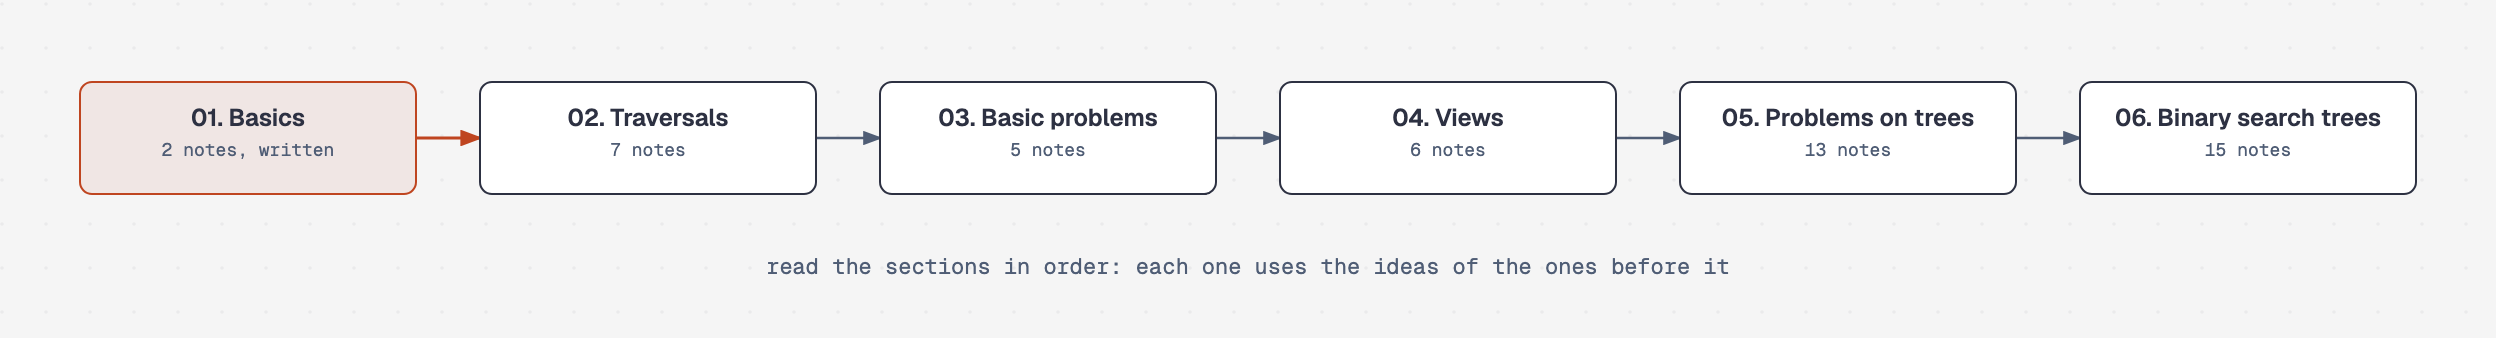
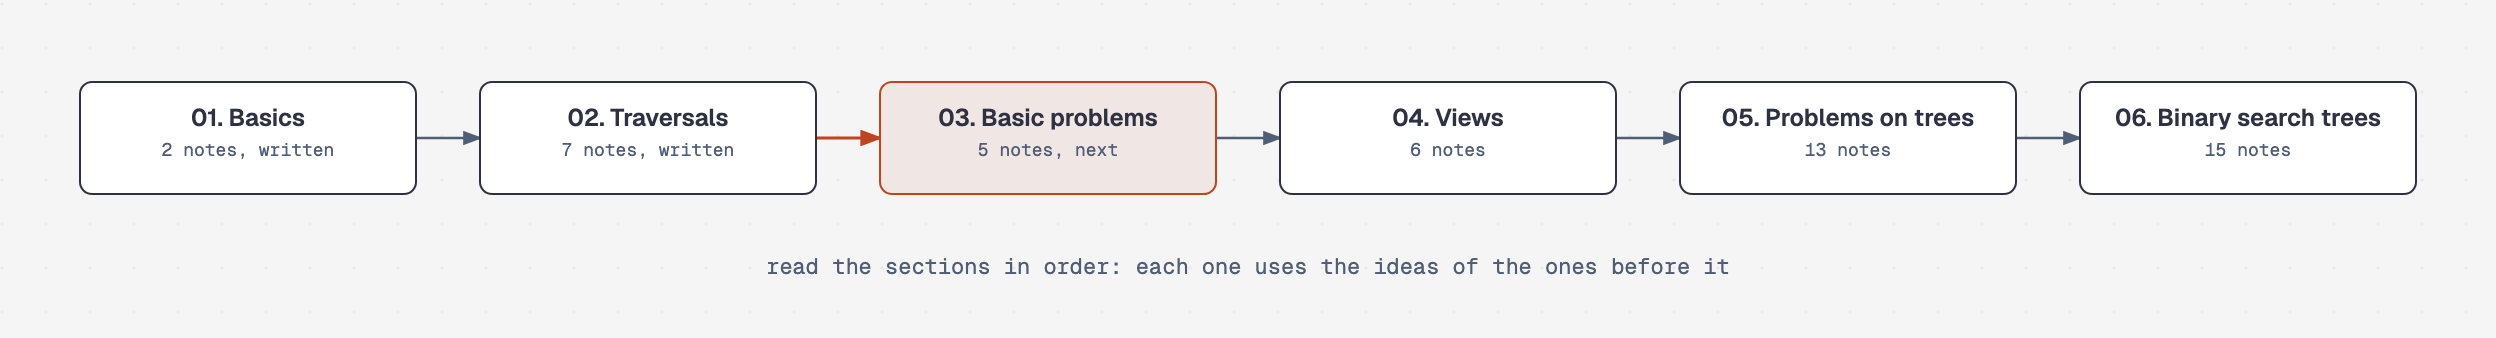
Trees guide and root README: section 02 Tree Traversals written

Changed region(s): [[0.3125, 0.2367, 0.5, 0.5917], [0.0312, 0.2367, 0.1875, 0.5917], [0.2188, 0.4142, 0.3125, 0.4734]]

diff --git a/README.md b/README.md
@@ -10,7 +10,7 @@ Every code line has a comment above it. Each note says which array it uses, then
 
 ## Topics
 
-Counts are problems written, broken down by difficulty tier. Theory notes (like the two Trees basics) count in the total only.
+Counts are problems written, broken down by difficulty tier. Theory notes (like the Trees basics and traversals intro) count in the total only.
 
 | # | Topic | Core Focus | Easy | Medium | Hard | Total | Status |
 |:---:|:---|:---|:---:|:---:|:---:|:---:|:---:|
@@ -21,7 +21,7 @@ Counts are problems written, broken down by difficulty tier. Theory notes (like 
 | 05 | Linked List | Reversal, cycle detection, merge | – | – | – | – | Planned |
 | 06 | Binary Search | On answer space, rotated arrays | – | – | – | – | Planned |
 | 07 | [**Recursion**](07.%20Recursion/) | Pick/not-pick, backtracking, constraints | 2 | 5 | 13 | **20** | Complete |
-| 08 | [**Trees**](08.%20Trees/) | Tree basics, traversals, views, BST | – | – | – | **2** | In progress |
+| 08 | [**Trees**](08.%20Trees/) | Tree basics, traversals, views, BST | 3 | 3 | – | **9** | In progress |
 | 09 | Heaps | Top-K, merge K sorted, running median | – | – | – | – | Planned |
 | 10 | Greedy | Interval scheduling, exchange argument | – | – | – | – | Planned |
 | 11 | [**Graphs**](11.%20Graphs/) | BFS/DFS, topo sort, Dijkstra, MST, DSU | 5 | 22 | 2 | **29** | In progress |
@@ -30,7 +30,7 @@ Counts are problems written, broken down by difficulty tier. Theory notes (like 
 | 14 | Bit Manipulation | XOR tricks, masks, bit counting | – | – | – | – | Planned |
 | 15 | Intervals | Merge, insert, overlap counting | – | – | – | – | Planned |
 | 16 | Databases | Joins, window functions, aggregation | – | – | – | – | Planned |
-| | **Total** | | **64** | **83** | **23** | **172** | |
+| | **Total** | | **67** | **86** | **23** | **179** | |
 
 **Roadmap.** Arrows point from a topic to the topics that build on it. Start at the top and move down once every arrow into a topic is done. For example, Graphs needs Trees (graph traversal grows from tree traversal) and Heaps (Dijkstra uses a heap). Dynamic Programming needs Recursion and Graphs. Databases is a separate track you can do any time.
 
@@ -362,6 +362,18 @@ Trees store things in a hierarchy: one root, and every other node below exactly 
 |:---:|:---|:---:|:---|:---:|:---:|:---:|
 | 1 | [Introduction to Trees](08.%20Trees/01.%20Basics/01.%20Introduction%20to%20Trees.md) | Theory | Root, leaf, level and height, and the five types: full, complete, perfect, balanced, degenerate | Lecture notes | `O(n)` checks | `O(h)` |
 | 2 | [Tree Representation](08.%20Trees/01.%20Basics/02.%20Tree%20Representation.md) | Theory | Each node holds a value and two links; build a tree by hand or from the LeetCode list | Lecture notes | `O(n)` build | `O(n)` |
+
+### Tree Traversals
+
+| # | Note / Problem | Difficulty | Key Idea | Source | Time | Space |
+|:---:|:---|:---:|:---|:---:|:---:|:---:|
+| 1 | [Binary Tree Traversals](08.%20Trees/02.%20Tree%20traversals/03.%20Binary%20Tree%20Traversals.md) | Theory | BFS and DFS; preorder, inorder, postorder and level order, and writing them by hand | Lecture notes | `O(n)` | `O(h)` |
+| 2 | [144. Binary Tree Preorder Traversal](08.%20Trees/02.%20Tree%20traversals/04.%20144.%20Binary%20Tree%20Preorder%20Traversal.md) | Easy | Root, left, right; with a stack, push right before left; Morris for `O(1)` space | [144](https://leetcode.com/problems/binary-tree-preorder-traversal/) | `O(n)` | `O(h)` |
+| 3 | [94. Binary Tree Inorder Traversal](08.%20Trees/02.%20Tree%20traversals/05.%2094.%20Binary%20Tree%20Inorder%20Traversal.md) | Easy | Go left as far as possible, visit on the way back, then turn right | [94](https://leetcode.com/problems/binary-tree-inorder-traversal/) | `O(n)` | `O(h)` |
+| 4 | [145. Binary Tree Postorder Traversal](08.%20Trees/02.%20Tree%20traversals/06.%20145.%20Binary%20Tree%20Postorder%20Traversal.md) | Easy | Visit a node after both subtrees; one stack needs a `prev` pointer | [145](https://leetcode.com/problems/binary-tree-postorder-traversal/) | `O(n)` | `O(h)` |
+| 5 | [102. Binary Tree Level Order Traversal](08.%20Trees/02.%20Tree%20traversals/07.%20102.%20Binary%20Tree%20Level%20Order%20Traversal.md) | Medium | A queue holds one level; take out `len(queue)` nodes per round | [102](https://leetcode.com/problems/binary-tree-level-order-traversal/) | `O(n)` | `O(n)` |
+| 6 | [103. Binary Tree Zigzag Level Order Traversal](08.%20Trees/02.%20Tree%20traversals/08.%20103.%20Binary%20Tree%20Zigzag%20Level%20Order%20Traversal.md) | Medium | Level order with a direction flag; write each level at the back or the front of a deque | [103](https://leetcode.com/problems/binary-tree-zigzag-level-order-traversal/) | `O(n)` | `O(n)` |
+| 7 | [All in One Traversal](08.%20Trees/02.%20Tree%20traversals/09.%20All%20in%20One%20Traversal.md) | Medium | A stack of (node, state): states 1, 2, 3 give preorder, inorder, postorder in one pass | Lecture notes | `O(n)` | `O(n)` |
 
 ## 11. Graphs
 

diff --git a/08. Trees/README.md b/08. Trees/README.md
@@ -11,7 +11,7 @@ Read the sections in order. Every note follows the same shape as the rest of thi
 | # | Section | What it teaches | Notes | Status |
 |:---:|:---|:---|:---:|:---:|
 | 01 | Basics | What a tree is, its parts, the five types, and how to store one in code | 2 | Written |
-| 02 | Tree Traversals | Visiting every node: preorder, inorder, postorder, level order and zigzag | 7 | Planned |
+| 02 | Tree Traversals | Visiting every node: preorder, inorder, postorder, level order and zigzag | 7 | Written |
 | 03 | Basic Problems | First recursive problems: depth, balance, diameter, path sum, same tree | 5 | Planned |
 | 04 | Views | What you see from the side, top or bottom, and the boundary walk | 6 | Planned |
 | 05 | Problems on Trees | Symmetry, paths, ancestors, width, distances, building and flattening trees | 13 | Planned |
@@ -32,13 +32,13 @@ Visiting every node: preorder, inorder, postorder, level order and zigzag.
 
 | # | Note / Problem | Key idea | Source | Status |
 |:---:|:---|:---|:---:|:---:|
-| 1 | Binary tree traversals | Key idea is added when this note is written | Lecture notes (GfG style) | Planned |
-| 2 | 144. Binary Tree Preorder Traversal | Key idea is added when this note is written | LeetCode problem 144 | Planned |
-| 3 | 94. Binary Tree Inorder Traversal | Key idea is added when this note is written | LeetCode problem 94 | Planned |
-| 4 | 145. Binary Tree Post order Traversal | Key idea is added when this note is written | LeetCode problem 145 | Planned |
-| 5 | 102. Binary Tree Level Order Traversal | Key idea is added when this note is written | LeetCode problem 102 | Planned |
-| 6 | 103. Binary Tree Zigzag Level Order Traversal | Key idea is added when this note is written | LeetCode problem 103 | Planned |
-| 7 | All in one traversal | Key idea is added when this note is written | Lecture notes (GfG style) | Planned |
+| 1 | [Binary Tree Traversals](02.%20Tree%20traversals/03.%20Binary%20Tree%20Traversals.md) | BFS and DFS; preorder, inorder, postorder and level order, and writing them by hand | Lecture notes | Written |
+| 2 | [144. Binary Tree Preorder Traversal](02.%20Tree%20traversals/04.%20144.%20Binary%20Tree%20Preorder%20Traversal.md) | Root, left, right; with a stack, push right before left; Morris for `O(1)` space | [144](https://leetcode.com/problems/binary-tree-preorder-traversal/) | Written |
+| 3 | [94. Binary Tree Inorder Traversal](02.%20Tree%20traversals/05.%2094.%20Binary%20Tree%20Inorder%20Traversal.md) | Go left as far as possible, visit on the way back, then turn right | [94](https://leetcode.com/problems/binary-tree-inorder-traversal/) | Written |
+| 4 | [145. Binary Tree Postorder Traversal](02.%20Tree%20traversals/06.%20145.%20Binary%20Tree%20Postorder%20Traversal.md) | Visit a node after both subtrees; one stack needs a `prev` pointer | [145](https://leetcode.com/problems/binary-tree-postorder-traversal/) | Written |
+| 5 | [102. Binary Tree Level Order Traversal](02.%20Tree%20traversals/07.%20102.%20Binary%20Tree%20Level%20Order%20Traversal.md) | A queue holds one level; take out `len(queue)` nodes per round | [102](https://leetcode.com/problems/binary-tree-level-order-traversal/) | Written |
+| 6 | [103. Binary Tree Zigzag Level Order Traversal](02.%20Tree%20traversals/08.%20103.%20Binary%20Tree%20Zigzag%20Level%20Order%20Traversal.md) | Level order with a direction flag; write each level at the back or the front of a deque | [103](https://leetcode.com/problems/binary-tree-zigzag-level-order-traversal/) | Written |
+| 7 | [All in One Traversal](02.%20Tree%20traversals/09.%20All%20in%20One%20Traversal.md) | A stack of (node, state): states 1, 2, 3 give preorder, inorder, postorder in one pass | Lecture notes | Written |
 
 ## 03. Basic Problems
 
